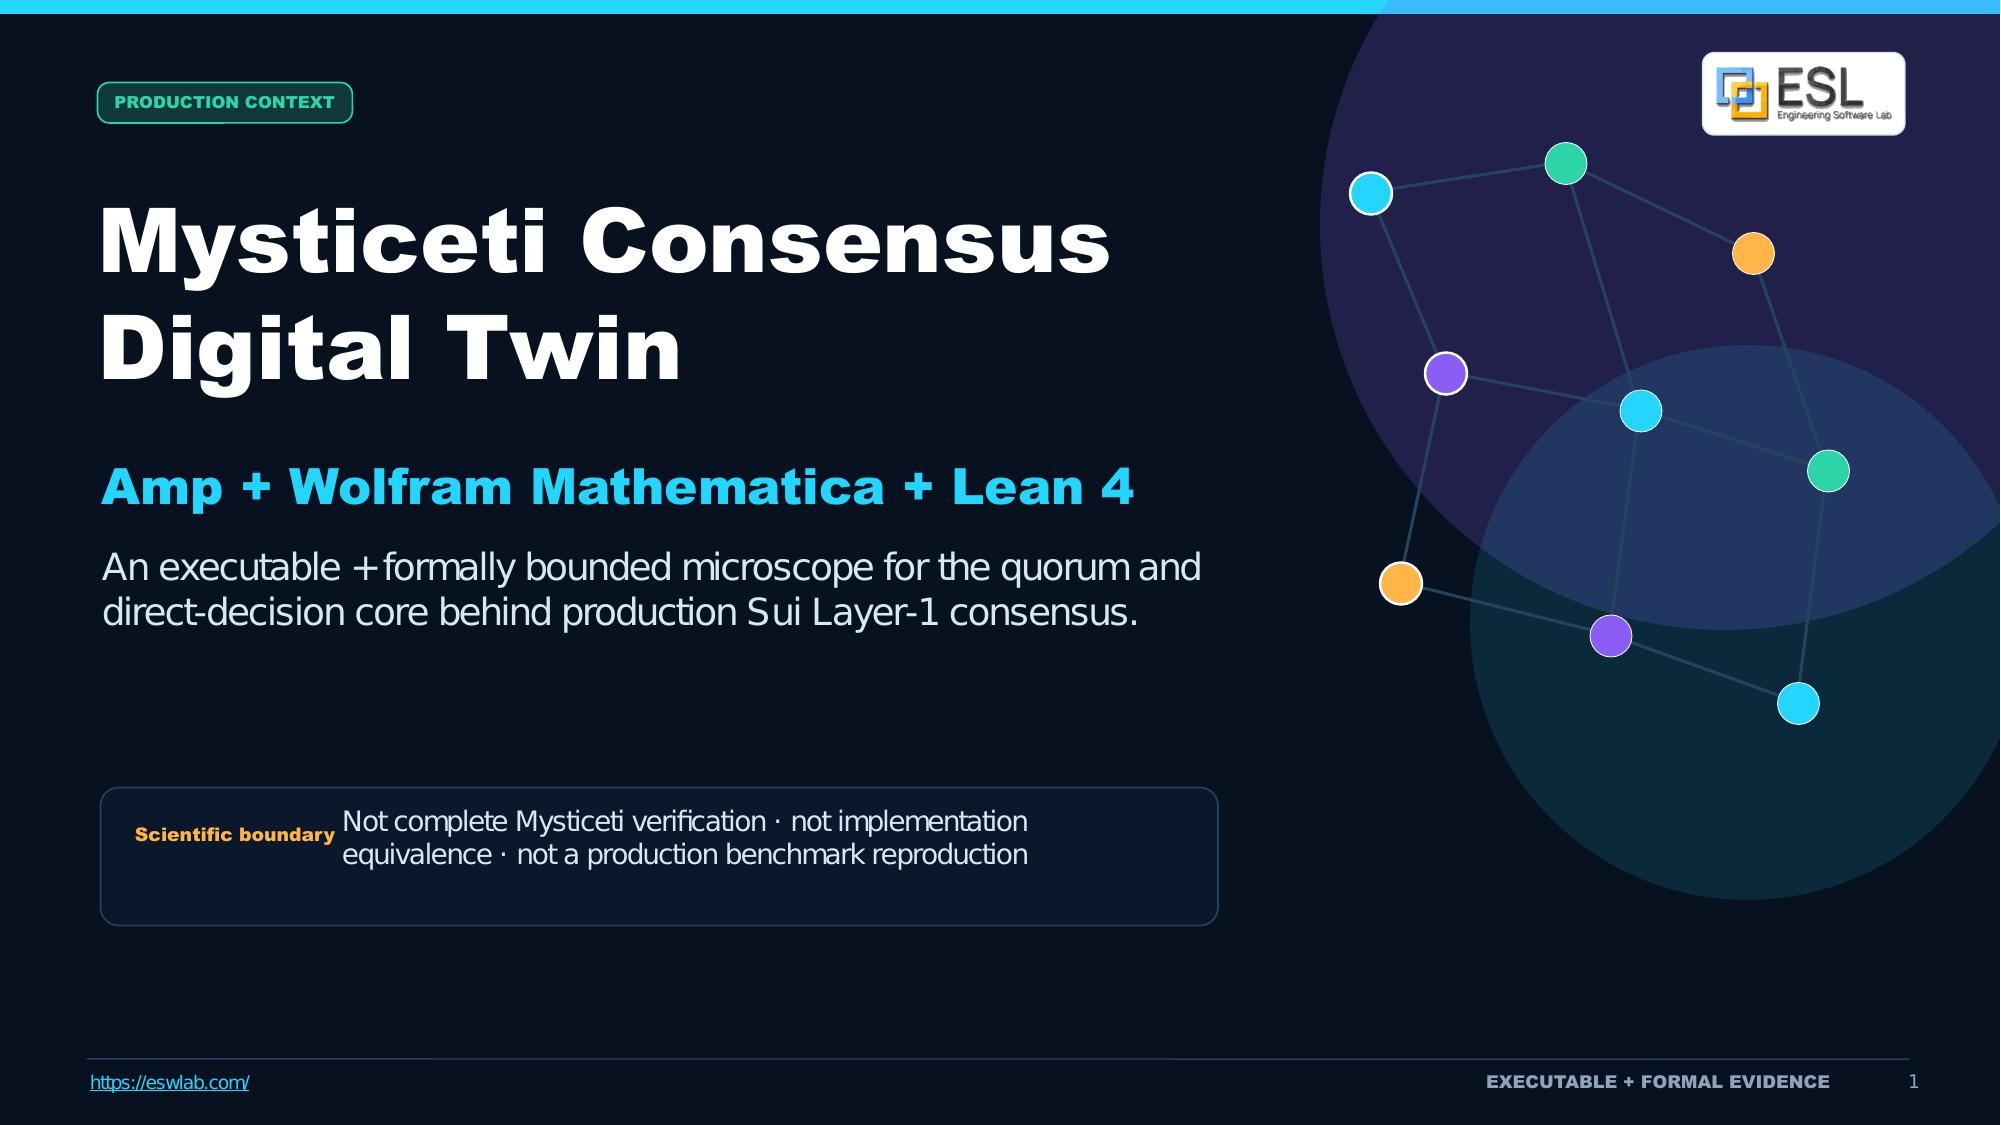
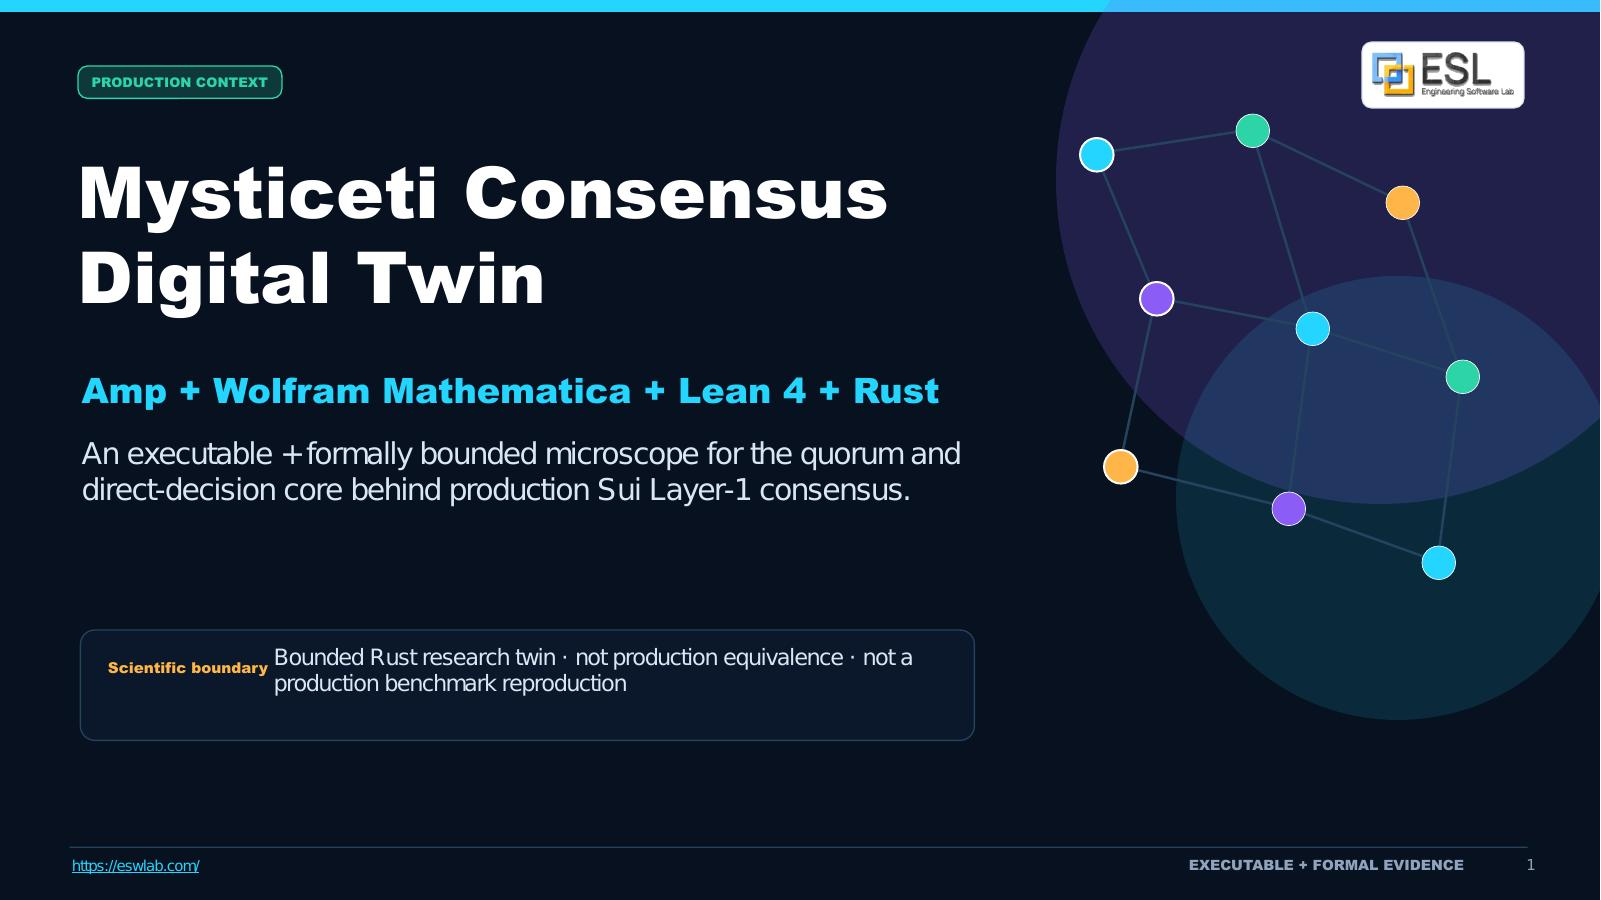
Upgrade Mysticeti deck with verified Rust digital twin
Amp-Thread-ID: https://ampcode.com/threads/T-019fa944-c591-7218-8247-1a19b7ce44c8

diff --git a/mysticeti-consensus-digital-twin/index.html b/mysticeti-consensus-digital-twin/index.html
@@ -5,16 +5,16 @@
   <meta http-equiv="Content-Security-Policy" content="default-src 'self'; img-src 'self' data:; style-src 'self' 'unsafe-inline' https://fonts.googleapis.com; font-src https://fonts.gstatic.com; script-src 'unsafe-inline'; connect-src 'none'; object-src 'none'; base-uri 'self'; form-action 'none'">
   <meta name="viewport" content="width=device-width, initial-scale=1, maximum-scale=1, user-scalable=no">
   <meta name="theme-color" content="#07111f">
-  <meta name="description" content="Mysticeti Consensus Digital Twin: an Amp, Wolfram Mathematica, and Lean 4 workflow for production-relevant blockchain consensus research.">
+  <meta name="description" content="Mysticeti Consensus Digital Twin: an Amp, Rust, Wolfram Mathematica, and Lean 4 workflow for bounded consensus research.">
   <link rel="canonical" href="https://zuwasi.github.io/Public-html-pages/mysticeti-consensus-digital-twin/">
   <meta property="og:type" content="website">
   <meta property="og:url" content="https://zuwasi.github.io/Public-html-pages/mysticeti-consensus-digital-twin/">
-  <meta property="og:title" content="Mysticeti Consensus Digital Twin — Amp + Wolfram + Lean 4">
+  <meta property="og:title" content="Mysticeti Consensus Digital Twin - Amp + Rust + Wolfram + Lean 4">
   <meta property="og:description" content="Executable consensus simulation, Lean-checked quorum proofs, workflow diagrams, and practical Sui implications by ESL.">
   <meta property="og:image" content="https://zuwasi.github.io/Public-html-pages/mysticeti-consensus-digital-twin/slides/slide-01.jpg">
   <meta name="twitter:card" content="summary_large_image">
   <meta name="twitter:title" content="Mysticeti Consensus Digital Twin">
-  <meta name="twitter:description" content="Amp + Wolfram Mathematica + Lean 4 for production-relevant blockchain consensus research.">
+  <meta name="twitter:description" content="Amp + Rust + Wolfram Mathematica + Lean 4 for bounded blockchain consensus research.">
   <meta name="twitter:image" content="https://zuwasi.github.io/Public-html-pages/mysticeti-consensus-digital-twin/slides/slide-01.jpg">
   <title>Mysticeti Consensus Digital Twin — ESL</title>
   <link rel="preconnect" href="https://fonts.googleapis.com">
@@ -60,7 +60,7 @@
 
     .deck {
       display: flex;
-      width: 1700vw;
+      width: 2100vw;
       height: 100%;
       transform: translate3d(calc(var(--slide) * -100vw), 0, 0);
       transition: transform 480ms cubic-bezier(.22, .8, .22, 1);
@@ -173,7 +173,7 @@
     }
 
     .progress {
-      width: 5.8823529%;
+      width: 4.7619048%;
       height: 100%;
       background: linear-gradient(90deg, var(--cyan), var(--violet), var(--green));
       box-shadow: 0 0 16px rgba(36, 213, 255, .45);
@@ -238,7 +238,7 @@
     @media (max-width: 700px) {
       .slide { padding: 48px 8px 42px; }
       .slide img { border-radius: 4px; }
-      .chip { display: none; }
+      .chip.brand { display: none; }
       .nav { top: auto; bottom: 12px; transform: none; width: 40px; height: 40px; font-size: 28px; }
       .nav:hover { transform: scale(1.04); }
       .counter { bottom: 13px; right: 50%; transform: translateX(50%); }
@@ -262,37 +262,42 @@
 </head>
 <body>
   <div class="topbar" aria-label="Presentation links and controls">
-    <a class="chip" href="https://eswlab.com/" target="_blank" rel="noopener"><strong>ESL</strong> Engineering Software Lab</a>
+    <button class="chip" id="home" type="button" aria-label="Go to slide 1" title="Home (Home key)"><strong>⌂</strong> Home</button>
+    <a class="chip brand" href="https://eswlab.com/" target="_blank" rel="noopener"><strong>ESL</strong> Engineering Software Lab</a>
     <a class="icon-button" href="https://il.linkedin.com/in/liezrowice" target="_blank" rel="noopener" aria-label="Daniel Liezrowice on LinkedIn" title="Daniel Liezrowice on LinkedIn">in</a>
     <button class="icon-button" id="fullscreen" type="button" aria-label="Toggle fullscreen" title="Fullscreen (F)">⛶</button>
   </div>
 
   <main class="viewport" id="viewport" aria-label="Mysticeti Consensus Digital Twin presentation">
     <div class="deck" id="deck">
-      <section class="slide" data-title="Mysticeti Consensus Digital Twin"><img src="slides/slide-01.jpg" alt="Title: Mysticeti Consensus Digital Twin — Amp, Wolfram Mathematica, and Lean 4" fetchpriority="high"></section>
+      <section class="slide" data-title="Mysticeti Consensus Digital Twin"><img src="slides/slide-01.jpg" alt="Title: Mysticeti Consensus Digital Twin - Amp, Wolfram Mathematica, Lean 4, and Rust" fetchpriority="high"></section>
       <section class="slide" data-title="Why Mysticeti"><img src="slides/slide-02.jpg" alt="Why Mysticeti: NDSS 2025 research deployed on Sui Mainnet" loading="lazy"></section>
       <section class="slide" data-title="The proof-to-production challenge"><img src="slides/slide-03.jpg" alt="The challenge: separate paper claims, executable models, formal proofs, reported data, and production equivalence" loading="lazy"></section>
-      <section class="slide" data-title="Amp orchestration workflow"><img src="slides/slide-04.jpg" alt="Workflow diagram: paper, Amp claim ledger, normalized mathematics, Wolfram and Lean lanes, cross-check, implications" loading="lazy"></section>
+      <section class="slide" data-title="Amp orchestration workflow"><img src="slides/slide-04.jpg" alt="Amp workflow with Rust, Mathematica, and Lean lanes converging at an evidence gate" loading="lazy"></section>
       <section class="slide" data-title="Evidence hierarchy"><img src="slides/slide-05.jpg" alt="Evidence hierarchy and trust boundaries" loading="lazy"></section>
       <section class="slide" data-title="Inside the Mysticeti DAG"><img src="slides/slide-06.jpg" alt="Mysticeti educational DAG showing rounds, validators, and equivocation" loading="lazy"></section>
       <section class="slide" data-title="A certificate is not a commit"><img src="slides/slide-07.jpg" alt="Direct-decision anatomy: proposal, support quorum, certificate quorum, commit, and skip" loading="lazy"></section>
       <section class="slide" data-title="Consensus Safety Microscope"><img src="slides/slide-08.jpg" alt="Interactive Wolfram Consensus Safety Microscope" loading="lazy"></section>
-      <section class="slide" data-title="Wolfram architecture"><img src="slides/slide-09.jpg" alt="Wolfram package architecture, executable fixtures, and generated evidence" loading="lazy"></section>
-      <section class="slide" data-title="Lean quorum proof"><img src="slides/slide-10.jpg" alt="Lean proof chain: quorum intersection and honest overlap" loading="lazy"></section>
-      <section class="slide" data-title="Lean theorem coverage"><img src="slides/slide-11.jpg" alt="Lean theorem coverage and explicit exclusions" loading="lazy"></section>
-      <section class="slide" data-title="Safety envelope"><img src="slides/slide-12.jpg" alt="Equal-authority quorum safety envelope" loading="lazy"></section>
-      <section class="slide" data-title="Synthetic fault sensitivity"><img src="slides/slide-13.jpg" alt="Uncalibrated synthetic fault sensitivity chart" loading="lazy"></section>
-      <section class="slide" data-title="Paper-reported production benchmark"><img src="slides/slide-14.jpg" alt="CSV transcription of Mysticeti NDSS 2025 Table I production comparison" loading="lazy"></section>
-      <section class="slide" data-title="Practical implications"><img src="slides/slide-15.jpg" alt="Practical implications and developer checklist" loading="lazy"></section>
-      <section class="slide" data-title="Reproducible evidence gate"><img src="slides/slide-16.jpg" alt="Combined Wolfram and Lean reproducibility workflow and validation results" loading="lazy"></section>
-      <section class="slide" data-title="Contact Daniel Liezrowice"><img src="slides/slide-17.jpg" alt="Daniel Liezrowice with a goat, ESL and LinkedIn contact details" loading="lazy"></section>
+      <section class="slide" data-title="Rust architecture"><img src="slides/slide-09.jpg" alt="Bounded Rust digital twin architecture" loading="lazy"></section>
+      <section class="slide" data-title="Causal network"><img src="slides/slide-10.jpg" alt="Receiver-specific event delivery, local views, deadlines, parent selection, and fault effects" loading="lazy"></section>
+      <section class="slide" data-title="Actual Rust output"><img src="slides/slide-11.jpg" alt="Actual Rust terminal output with tests, trace, replay, and benchmark evidence" loading="lazy"></section>
+      <section class="slide" data-title="Rust fault campaign"><img src="slides/slide-12.jpg" alt="Deterministic 20-seed 80-row Rust loss campaign" loading="lazy"></section>
+      <section class="slide" data-title="Wolfram architecture"><img src="slides/slide-13.jpg" alt="Wolfram package architecture and conformance evidence" loading="lazy"></section>
+      <section class="slide" data-title="Lean quorum proof"><img src="slides/slide-14.jpg" alt="Lean proof chain: quorum intersection and honest overlap" loading="lazy"></section>
+      <section class="slide" data-title="Lean theorem coverage"><img src="slides/slide-15.jpg" alt="Lean theorem coverage and explicit exclusions" loading="lazy"></section>
+      <section class="slide" data-title="Safety envelope"><img src="slides/slide-16.jpg" alt="Equal-authority quorum safety envelope" loading="lazy"></section>
+      <section class="slide" data-title="Synthetic fault sensitivity"><img src="slides/slide-17.jpg" alt="Uncalibrated synthetic fault sensitivity chart" loading="lazy"></section>
+      <section class="slide" data-title="Paper-reported production benchmark"><img src="slides/slide-18.jpg" alt="CSV transcription of Mysticeti NDSS 2025 Table I production comparison" loading="lazy"></section>
+      <section class="slide" data-title="Practical implications"><img src="slides/slide-19.jpg" alt="Practical implications and revision-pinned Sui adapter path" loading="lazy"></section>
+      <section class="slide" data-title="Three-lane evidence gate"><img src="slides/slide-20.jpg" alt="Rust, Wolfram, and Lean release gate with actual validation results" loading="lazy"></section>
+      <section class="slide" data-title="Contact Daniel Liezrowice"><img src="slides/slide-21.jpg" alt="Daniel Liezrowice with a goat, ESL and LinkedIn contact details" loading="lazy"></section>
     </div>
   </main>
 
   <button class="nav prev" id="prev" type="button" aria-label="Previous slide">‹</button>
   <button class="nav next" id="next" type="button" aria-label="Next slide">›</button>
   <div class="swipe-hint" id="hint">← Swipe, drag, or use arrow keys →</div>
-  <div class="counter" id="counter" aria-live="polite">1 / 17</div>
+  <div class="counter" id="counter" aria-live="polite">1 / 21</div>
   <div class="progress-track" aria-hidden="true"><div class="progress" id="progress"></div></div>
   <div class="sr-only" id="announcement" aria-live="polite"></div>
 
@@ -309,6 +314,7 @@
       const hint = document.getElementById('hint');
       const announcement = document.getElementById('announcement');
       const fullscreen = document.getElementById('fullscreen');
+      const home = document.getElementById('home');
       let current = Math.max(0, Math.min(total - 1, Number(location.hash.replace('#slide-', '')) - 1 || 0));
       let startX = null;
       let pointerX = null;
@@ -350,6 +356,7 @@
 
       prev.addEventListener('click', () => go(current - 1));
       next.addEventListener('click', () => go(current + 1));
+      home.addEventListener('click', () => go(0));
 
       document.addEventListener('keydown', event => {
         if (event.ctrlKey || event.metaKey || event.altKey) return;
